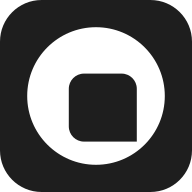
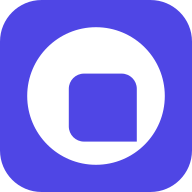
fix(branding): recolor new mark to the indigo brand accent
Same mark geometry as the previous commit, but filled with the
#4F46E5 brand indigo instead of plain black/white, so the logo matches
the UI's accent color.

diff --git a/app/javascript/dashboard/components-next/icon/Logo.vue b/app/javascript/dashboard/components-next/icon/Logo.vue
@@ -35,7 +35,7 @@ const globalConfig = useMapGetter('globalConfig/get');
       cx="120"
       cy="120"
       r="100"
-      fill="#111111"
+      fill="#4F46E5"
       mask="url(#intelychat-logo-mark-cut)"
     />
   </svg>
